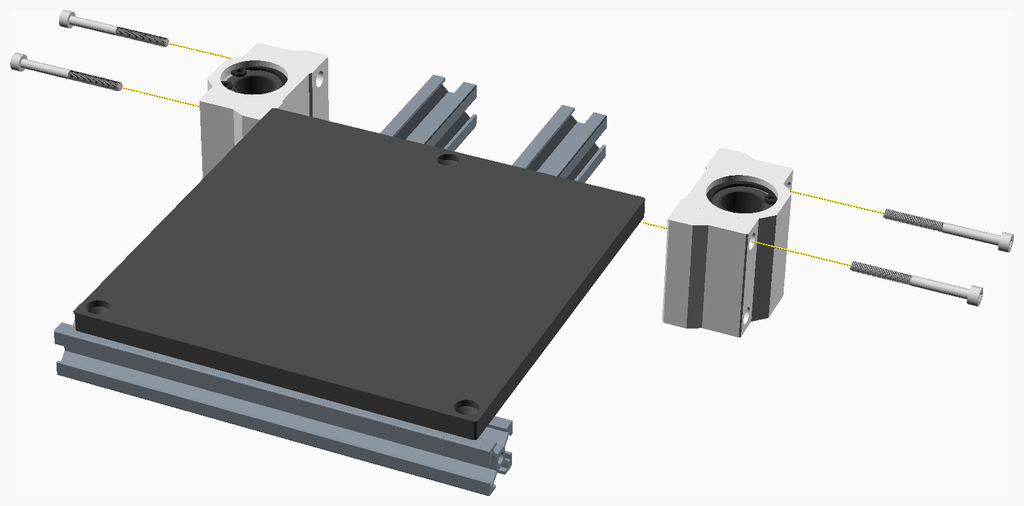
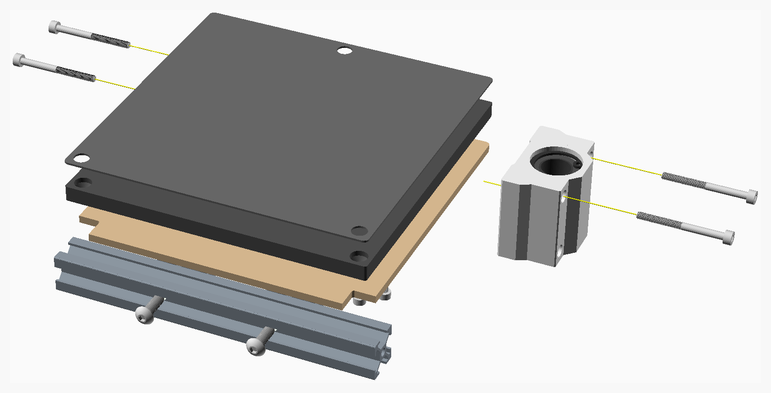
PRINTBED120E15 update after build.

diff --git a/PRINTBED120E15/readme.md b/PRINTBED120E15/readme.md
@@ -27,17 +27,22 @@ This is a alternative print bed for the BabyCube. It uses the same 120 x 120 x 6
 ## Parts list
 
 | <span style="writing-mode: vertical-rl; text-orientation: mixed;">Print Bed 3 Point</span> | <span style="writing-mode: vertical-rl; text-orientation: mixed;">TOTALS</span> |  |
-|-----:|------:|:---|
+|-----:|------:|:-------------|
 |      |       | **Vitamins** |
 |   1  |    1  |  Aluminium tooling plate 120mm x 120mm x 6mm |
 |   4  |    4  |  Bolt M3 caphead x  8mm |
 |   4  |    4  |  Bolt M3 caphead x 35mm |
+|   2  |    2  |  Bolt M4 buttonhead x 12mm |
 |   4  |    4  |  Bolt M5 countersunk x 12mm |
+|   1  |    1  |  Cork underlay 120mm x 120mm x 3mm |
 |   1  |    1  |  Extrusion E1515 x 130mm |
-|   2  |    2  |  Extrusion E1515 x 155mm |
+|   2  |    2  |  Extrusion E1515 x 150mm |
+|   1  |    1  |  Heating pad 100mm x 100mm |
 |   1  |    1  |  Leadscrew nut 8 x 2 |
+|   1  |    1  |  Magnetic base 120mm x 120mm |
 |   2  |    2  |  SCS12UU bearing block |
-|  19  |   19  | Total vitamins count |
+|   2  |    2  |  Washer M4 |
+|  26  |   26  | Total vitamins count |
 
 <span></span>
 [Top](#TOP)
@@ -49,17 +54,21 @@ This is a alternative print bed for the BabyCube. It uses the same 120 x 120 x 6
 
 ### Vitamins
 
-|Qty|Description|
-|---:|:----------|
-|1| Aluminium tooling plate 120mm x 120mm x 6mm|
-|4| Bolt M3 caphead x  8mm|
-|4| Bolt M3 caphead x 35mm|
-|4| Bolt M5 countersunk x 12mm|
-|1| Extrusion E1515 x 130mm|
-|2| Extrusion E1515 x 155mm|
-|1| Leadscrew nut 8 x 2|
-|2| SCS12UU bearing block|
-
+| Qty | Description |
+|----:|:------------|
+|   1 | Aluminium tooling plate 120mm x 120mm x 6mm |
+|   4 | Bolt M3 caphead x  8mm |
+|   4 | Bolt M3 caphead x 35mm |
+|   2 | Bolt M4 buttonhead x 12mm |
+|   4 | Bolt M5 countersunk x 12mm |
+|   1 | Cork underlay 120mm x 120mm x 3mm |
+|   1 | Extrusion E1515 x 130mm |
+|   2 | Extrusion E1515 x 150mm |
+|   1 | Heating pad 100mm x 100mm |
+|   1 | Leadscrew nut 8 x 2 |
+|   1 | Magnetic base 120mm x 120mm |
+|   2 | SCS12UU bearing block |
+|   2 | Washer M4 |
 
 ### Assembly instructions
 
